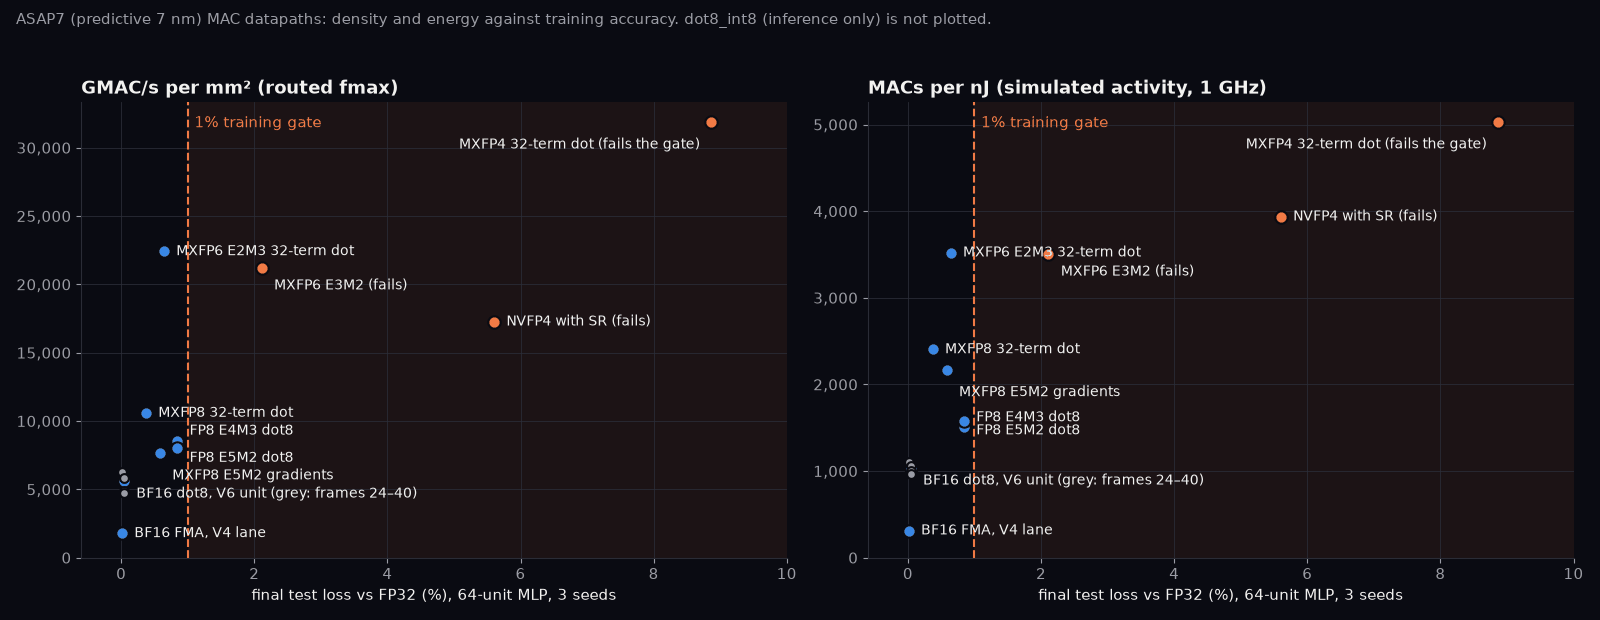
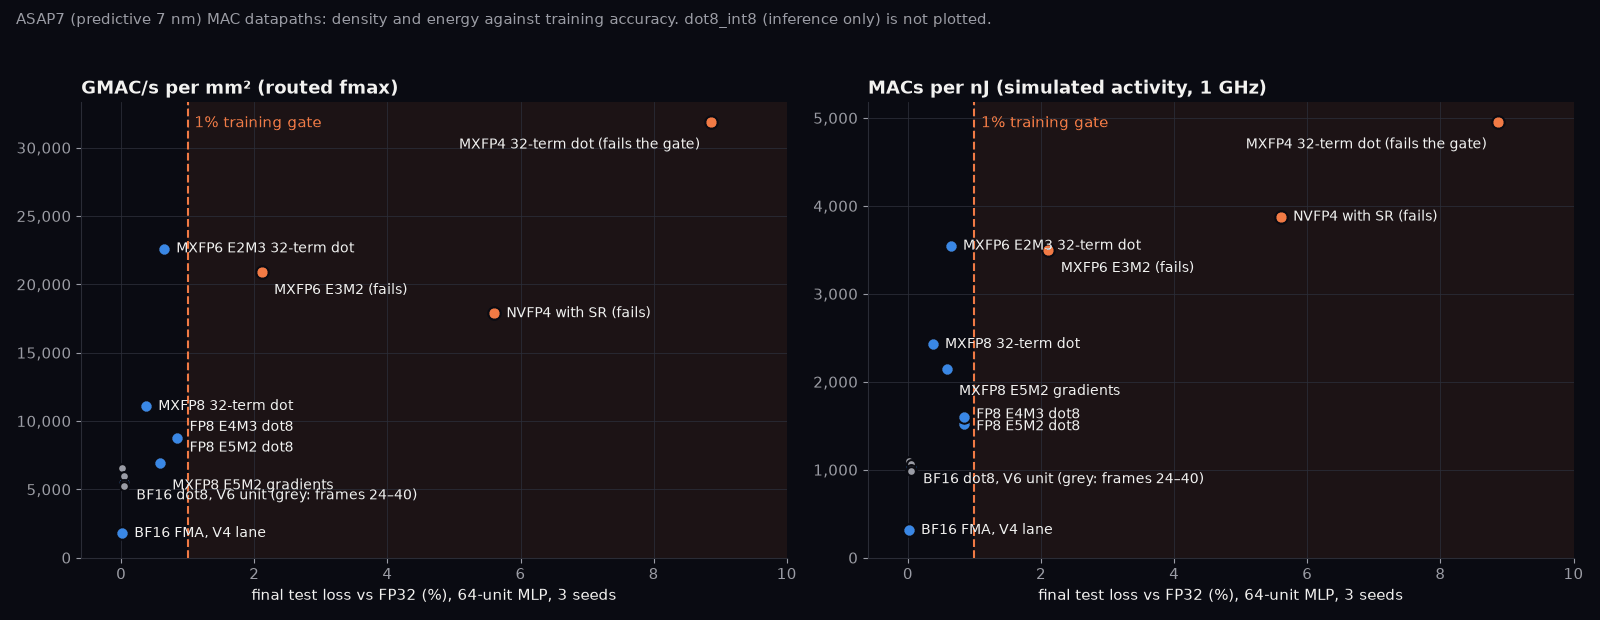
Regenerate PPA results from fresh routes
results.json now rebuilds from build outputs; doc tables and ratios match the new routes.

diff --git a/docs/numerics-results.md b/docs/numerics-results.md
@@ -1,10 +1,10 @@
 # Numerics study results
 
-Method: [numerics-study.md](numerics-study.md). Verified 2026-11-12 (15 routed points). **ASAP7 is a predictive PDK: every figure below is only a comparison between design points, never a foundry number.**
+Method: [numerics-study.md](numerics-study.md). Verified 2026-11-13 (15 routed points). **ASAP7 is a predictive PDK: every figure below is only a comparison between design points, never a foundry number.**
 
 ## Answer
 
-Among datapaths that train within the tolerance, **MXFP6 E2M3 32-term block dot products** give the most throughput per mm² (4.0× the BF16 dot8) and per joule (3.4×), and train at +0.64% test loss. **MXFP8 (E4M3)** is next at 1.9× and 2.3×, with more accuracy margin (+0.37%). Per-tensor FP8 dot8 units follow at about 1.4–1.5×. **MXFP4 is 5.7× denser but fails training** (+8.9%). NVFP4 fails too, even with stochastic rounding (+5.6%). MXFP6 E3M2 costs the same as E2M3 but fails (+2.1%): with a block scale, the extra mantissa bit matters more than exponent range. For BF16, the frame width is a free knob: narrowing the alignment frame from 32 to 24 bits saves 11% area and 6% energy, with no measurable change in error or training. Chained FMAs cost 3.3× the dot8's energy per MAC and give 0.32× its throughput per mm².
+Among datapaths that train within the tolerance, **MXFP6 E2M3 32-term block dot products** give the most throughput per mm² (4.1× the BF16 dot8) and per joule (3.4×), and train at +0.64% test loss. **MXFP8 (E4M3)** is next at 2.0× and 2.3×, with more accuracy margin (+0.37%). Per-tensor FP8 dot8 units follow at about 1.5–1.6×. **MXFP4 is 5.8× denser but fails training** (+8.9%). NVFP4 fails too, even with stochastic rounding (+5.6%). MXFP6 E3M2 costs the same as E2M3 but fails (+2.1%): with a block scale, the extra mantissa bit matters more than exponent range. For BF16, the frame width is a free knob: narrowing the alignment frame from 32 to 24 bits saves 10% area and 6% energy, with no measurable change in error or training. Chained FMAs cost 3.3× the dot8's energy per MAC and give 0.33× its throughput per mm².
 
 **Checked in a real PDK.** BF16 dot8, MXFP8 and MXFP6 E2M3 units routed in SKY130HD keep this order, and their area and energy ratios agree with ASAP7 within 11%. In a full tile, though, MXFP8 saves only 1.2–1.6× energy per MAC over BF16, because flops and the clock tree dominate tile power ([V7 results](v7-results.md#asap7-prediction-vs-sky130hd-measurement)).
 
@@ -14,21 +14,21 @@ Throughput per mm² uses the routed fmax; energy uses simulated activity at 1 GH
 
 | Rank | Point | Trains | GMAC/s/mm² | × dot8_bf16 | MAC/nJ | × dot8_bf16 |
 | ---: | --- | --- | ---: | ---: | ---: | ---: |
-| 1 | `dot32_mxfp6_e2m3` | yes | 22,415 | 4.01 | 3,516 | 3.40 |
-| 2 | `dot32_mxfp8` | yes | 10,589 | 1.90 | 2,406 | 2.33 |
-| 3 | `dot8_e4m3` | yes (FP8 recipe) | 8,571 | 1.53 | 1,507 | 1.46 |
-| 4 | `dot8_e5m2` | yes (FP8 recipe) | 8,010 | 1.43 | 1,581 | 1.53 |
-| 5 | `dot32_mxfp8_e5m2` | yes (E5M2 gradients) | 7,636 | 1.37 | 2,162 | 2.09 |
-| 6 | `dot8_bf16_f24` | yes | 6,277 | 1.12 | 1,100 | 1.06 |
-| 7 | `dot8_bf16_f28` | yes | 5,793 | 1.04 | 1,061 | 1.03 |
-| 8 | `dot8_bf16` (frame 32, V6 unit) | yes | 5,588 | 1.00 | 1,034 | 1.00 |
-| 9 | `dot8_bf16_f36` | yes | 4,865 | 0.87 | 1,005 | 0.97 |
-| 10 | `dot8_bf16_f40` | yes | 4,743 | 0.85 | 965 | 0.93 |
-| 11 | `fma_bf16` | yes | 1,782 | 0.32 | 313 | 0.30 |
-| — | `dot32_mxfp4` | no (with or without SR) | 31,834 | 5.70 | 5,024 | 4.86 |
-| — | `dot8_int8` | inference only | 26,973 | 4.83 | 2,985 | 2.89 |
-| — | `dot32_mxfp6_e3m2` | no | 21,241 | 3.80 | 3,505 | 3.39 |
-| — | `dot32_nvfp4` | no (with or without SR) | 17,275 | 3.09 | 3,941 | 3.81 |
+| 1 | `dot32_mxfp6_e2m3` | yes | 22,623 | 4.14 | 3,552 | 3.44 |
+| 2 | `dot32_mxfp8` | yes | 11,083 | 2.03 | 2,424 | 2.35 |
+| 3 | `dot8_e4m3` | yes (FP8 recipe) | 8,843 | 1.62 | 1,518 | 1.47 |
+| 4 | `dot8_e5m2` | yes (FP8 recipe) | 8,759 | 1.60 | 1,603 | 1.55 |
+| 5 | `dot32_mxfp8_e5m2` | yes (E5M2 gradients) | 6,908 | 1.26 | 2,148 | 2.08 |
+| 6 | `dot8_bf16_f24` | yes | 6,565 | 1.20 | 1,099 | 1.06 |
+| 7 | `dot8_bf16_f28` | yes | 5,963 | 1.09 | 1,068 | 1.03 |
+| 8 | `dot8_bf16` (frame 32, V6 unit) | yes | 5,466 | 1.00 | 1,034 | 1.00 |
+| 9 | `dot8_bf16_f36` | yes | 5,395 | 0.99 | 1,005 | 0.97 |
+| 10 | `dot8_bf16_f40` | yes | 5,262 | 0.96 | 986 | 0.95 |
+| 11 | `fma_bf16` | yes | 1,791 | 0.33 | 313 | 0.30 |
+| — | `dot32_mxfp4` | no (with or without SR) | 31,875 | 5.83 | 4,954 | 4.79 |
+| — | `dot8_int8` | inference only | 26,973 | 4.93 | 2,985 | 2.89 |
+| — | `dot32_mxfp6_e3m2` | no | 20,901 | 3.82 | 3,497 | 3.38 |
+| — | `dot32_nvfp4` | no (with or without SR) | 17,888 | 3.27 | 3,874 | 3.75 |
 
 ![Throughput per mm² and MACs per nJ against final test loss relative to FP32, with the 1% gate](img/numerics-pareto.png)
 
@@ -44,25 +44,25 @@ Each unit is routed behind registered inputs in a fixed harness, with a 1 GHz ta
 
 | Point | MACs/clk | Area µm² | Area/MAC µm² | fmax MHz | Power at 1 GHz mW | Energy fJ/MAC |
 | --- | ---: | ---: | ---: | ---: | ---: | ---: |
-| `fma_bf16` | 1 | 586 | 586 | 1045 | 3.19 | 3190 |
-| `dot8_bf16` | 8 | 1328 | 166 | 928 | 7.74 | 968 |
-| `dot8_bf16_f24` | 8 | 1182 | 148 | 927 | 7.27 | 909 |
-| `dot8_bf16_f28` | 8 | 1273 | 159 | 922 | 7.54 | 943 |
-| `dot8_bf16_f36` | 8 | 1404 | 176 | 854 | 7.96 | 995 |
-| `dot8_bf16_f40` | 8 | 1475 | 184 | 874 | 8.29 | 1036 |
-| `dot8_e4m3` | 8 | 939 | 117 | 1006 | 5.31 | 664 |
-| `dot8_e5m2` | 8 | 926 | 116 | 927 | 5.06 | 633 |
-| `dot32_mxfp8` | 32 | 2735 | 85 | 905 | 13.30 | 416 |
-| `dot32_mxfp8_e5m2` | 32 | 3933 | 123 | 938 | 14.80 | 462 |
-| `dot32_mxfp6_e3m2` | 32 | 1578 | 49 | 1047 | 9.13 | 285 |
-| `dot32_mxfp6_e2m3` | 32 | 1486 | 46 | 1041 | 9.10 | 284 |
-| `dot32_mxfp4` | 32 | 1045 | 33 | 1040 | 6.37 | 199 |
-| `dot32_nvfp4` | 32 | 1536 | 48 | 829 | 8.12 | 254 |
-| `dot8_int8` | 8 | 435 | 54 | 1468 | 2.69 | 335 |
+| `fma_bf16` | 1 | 583 | 583 | 1044 | 3.19 | 3190 |
+| `dot8_bf16` | 8 | 1315 | 164 | 898 | 7.74 | 968 |
+| `dot8_bf16_f24` | 8 | 1186 | 148 | 974 | 7.28 | 910 |
+| `dot8_bf16_f28` | 8 | 1244 | 156 | 928 | 7.49 | 936 |
+| `dot8_bf16_f36` | 8 | 1399 | 175 | 944 | 7.96 | 995 |
+| `dot8_bf16_f40` | 8 | 1445 | 181 | 950 | 8.11 | 1014 |
+| `dot8_e4m3` | 8 | 935 | 117 | 1034 | 5.27 | 659 |
+| `dot8_e5m2` | 8 | 909 | 114 | 995 | 4.99 | 624 |
+| `dot32_mxfp8` | 32 | 2731 | 85 | 946 | 13.20 | 412 |
+| `dot32_mxfp8_e5m2` | 32 | 3995 | 125 | 862 | 14.90 | 466 |
+| `dot32_mxfp6_e3m2` | 32 | 1591 | 50 | 1039 | 9.15 | 286 |
+| `dot32_mxfp6_e2m3` | 32 | 1457 | 46 | 1030 | 9.01 | 282 |
+| `dot32_mxfp4` | 32 | 1044 | 33 | 1039 | 6.46 | 202 |
+| `dot32_nvfp4` | 32 | 1550 | 48 | 866 | 8.26 | 258 |
+| `dot8_int8` | 8 | 435 | 54 | 1468 | 2.68 | 335 |
 
-All 15 routes pass hold, slew, capacitance, fanout and router DRC. Setup slack is the fmax measurement, not a gate. **fmax is the noisy column.** Re-routing the unchanged BF16 points moved fmax by up to 9% (`dot8_bf16_f24`: 1014 → 927 MHz; `dot8_bf16`: 882 → 928 MHz) while area and energy stayed within 3%. MXFP8's 2.17× of the previous route is 1.90× here for the same reason (996 → 905 MHz, area 2753 → 2735 µm², energy unchanged). Throughput ratios are therefore good to about ±10%; area and energy ratios to a few percent. The E2M3-over-MXFP8 gap (2.1× in throughput per mm², 1.5× in energy) is far outside that noise.
+All 15 routes pass hold, slew, capacitance, fanout and router DRC. `fma_bf16` routes with a 25% slew repair margin; without it, one re-route left 88 post-route slew violations. Setup slack is the fmax measurement, not a gate. **fmax is the noisy column.** Re-routing unchanged units has moved fmax by up to 10% (`dot8_bf16_f36`: 854 → 944 MHz; `dot32_mxfp8_e5m2`: 938 → 862 MHz) while area and energy stayed within 3%. MXFP8's throughput per mm² has read 2.17×, 1.90× and 2.03× of BF16 on successive routes for this reason. Throughput ratios are therefore good to about ±10%; area and energy ratios to a few percent. The E2M3-over-MXFP8 gap (2.0× in throughput per mm², 1.5× in energy) is far outside that noise.
 
-NVFP4 costs more than MXFP4 for the same E2M1 elements because each 16-element block sum is multiplied by the product of its two E4M3 scale significands (8 bits) before the two blocks are aligned, where MX applies a power-of-two scale as an exponent add. It is also the slowest point (829 MHz).
+NVFP4 costs more than MXFP4 for the same E2M1 elements because each 16-element block sum is multiplied by the product of its two E4M3 scale significands (8 bits) before the two blocks are aligned, where MX applies a power-of-two scale as an exponent add. It is also among the slowest points (866 MHz; only `dot32_mxfp8_e5m2` is slower this route).
 
 **Energy method.** Each routed netlist is simulated with zero-delay cell models generated from the ASAP7 Liberty functions. Stimulus is 2,000 clocks of N(0, 1) operands quantized to the point's format, with N(0, 16) FP32 accumulator inputs. The routed outputs must match the Yosys netlist bit for bit after warm-up, and they do for all 15 points. OpenSTA reads the VCD (100% of pins annotated) and extracted SPEF, then reports power. The earlier probabilistic input-activity method put `fma_bf16` at 17.7 mW, 5.5× the simulated value, because it propagates toggles through the deep arithmetic logic without correlation. Zero-delay simulation leaves out glitch power, so absolute energies are low by an unknown factor; the comparison assumes it is similar across points.
 

diff --git a/docs/v7-results.md b/docs/v7-results.md
@@ -90,14 +90,14 @@ The numerics study ranked formats on routed ASAP7 units ([format cost](journal/2
 
 | Unit | SKY130 area/MAC, µm² | SKY130 energy/MAC, pJ | Area/MAC gain, ASAP7 → SKY130 | Energy/MAC gain, ASAP7 → SKY130 |
 | --- | ---: | ---: | ---: | ---: |
-| BF16 dot8 | 12,261 | 11.70 | 1 → 1 | 1 → 1 |
-| MXFP8 dot32 | 5,939 | 5.53 | 1.94× → 2.06× | 2.33× → 2.12× |
-| MXFP6 E2M3 dot32 | 3,269 | 3.50 | 3.58× → 3.75× | 3.40× → 3.34× |
+| BF16 dot8 | 12,193 | 11.69 | 1 → 1 | 1 → 1 |
+| MXFP8 dot32 | 5,899 | 5.53 | 1.93× → 2.07× | 2.35× → 2.11× |
+| MXFP6 E2M3 dot32 | 3,259 | 3.50 | 3.61× → 3.74× | 3.44× → 3.34× |
 
 | Tile claim | ASAP7 unit prediction | SKY130 tile measurement |
 | --- | ---: | ---: |
-| MXFP8 vs BF16, throughput per area | 1.90× | 1.76× peak (cells + macro), 1.57× (cells only) |
-| MXFP8 vs BF16, energy per MAC | 2.33× | 1.16× (32³ GEMM), 1.59× (pipelined) |
+| MXFP8 vs BF16, throughput per area | 2.03× | 1.76× peak (cells + macro), 1.57× (cells only) |
+| MXFP8 vs BF16, energy per MAC | 2.35× | 1.16× (32³ GEMM), 1.59× (pipelined) |
 
 **The ranking holds and the unit ratios transfer.** Every unit ratio agrees across PDKs within 11%, so the ASAP7 study's ordering of BF16, MXFP8 and MXFP6 E2M3 survives a real PDK. All three SKY130 units close at about 100 MHz, because the 10 ns target, not the logic, sets fmax. Their throughput ratios therefore reduce to the area ratios.
 

diff --git a/README.md b/README.md
@@ -8,7 +8,7 @@ BF16 and MXFP8 training-accelerator tiles in Verilog, carried from RTL through b
 | `training_tile_v6` | 32 BF16 | 2,181 | 467 GEMMs each | [V6 results](docs/training-v6-results.md) |
 | `training_tile_v7` | 64 MXFP8 | 1,616 | 181 GEMMs each; the study's training run on the tile matches the C++ model bit for bit | 974,138 µm² standard cells; setup +5.03 ns, hold +0.26 ns; 1.76× V6's peak MACs/clock/mm² ([V7 results](docs/v7-results.md)) |
 
-At ASAP7 (predictive 7 nm), against a BF16 8-term dot product, an MXFP6 E2M3 32-term block dot product gives 4.0× the throughput per mm² and 3.4× the MACs per joule and trains within 1% of FP32 (+0.64%); MXFP8 gives 1.9× and 2.3× with more margin (+0.37%). MXFP4 and NVFP4 are denser but miss the gate. See [numerics results](docs/numerics-results.md).
+At ASAP7 (predictive 7 nm), against a BF16 8-term dot product, an MXFP6 E2M3 32-term block dot product gives 4.1× the throughput per mm² and 3.4× the MACs per joule and trains within 1% of FP32 (+0.64%); MXFP8 gives 2.0× and 2.3× with more margin (+0.37%). MXFP4 and NVFP4 are denser but miss the gate. See [numerics results](docs/numerics-results.md).
 
 ![Routed V2, V3, V4 and V6 cores at one scale](docs/img/layout-strip.png)
 
